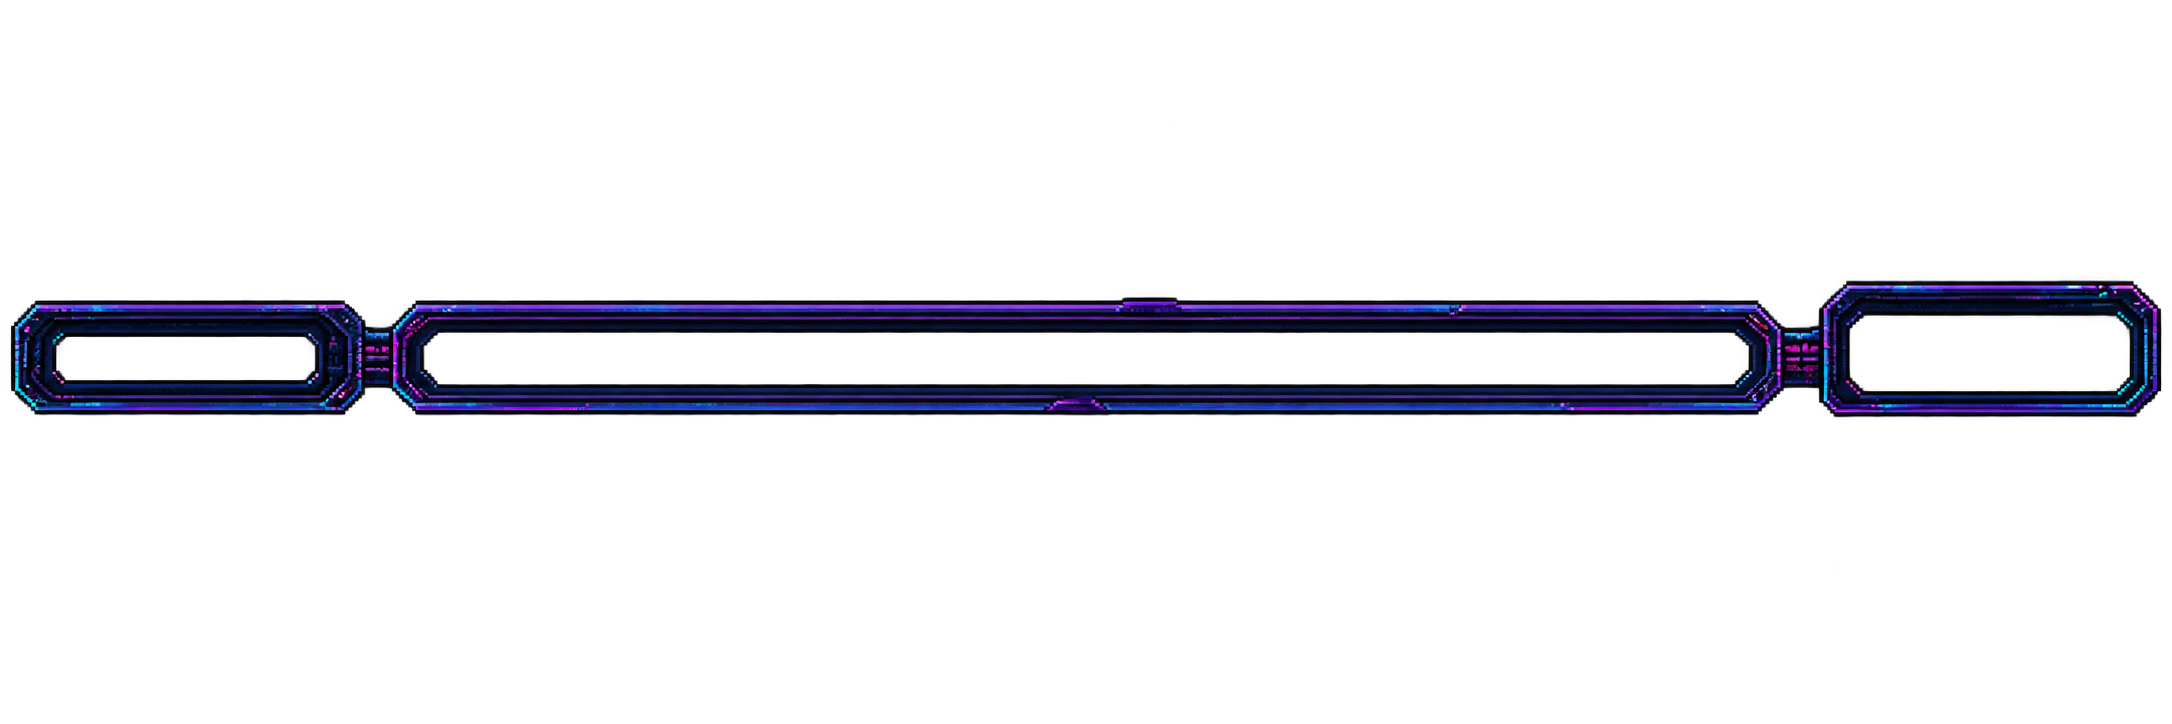
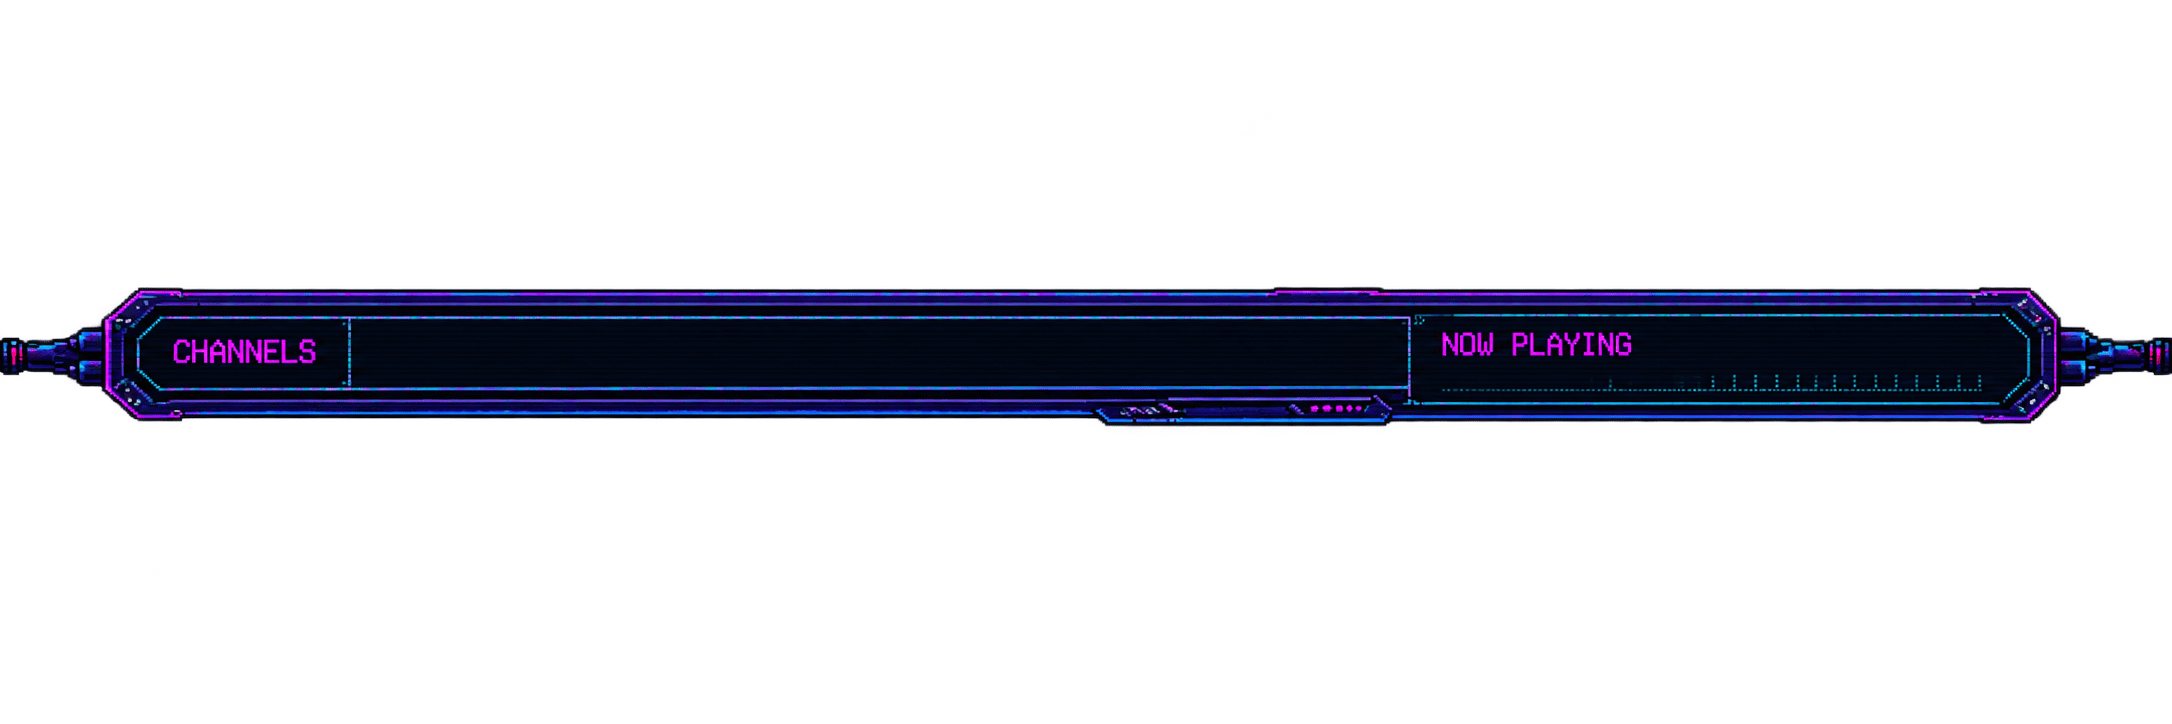
Fill the viewport edge to edge and swap in the new asset pack
Layout: the console was a fixed 1440x900 box scaled and centred, so it
always sat inside letterbox margins and the spine could never reach the
real left edge. Drive scale from height alone and derive the design width
from the viewport, anchored top-left, so the console spans the full page
with the spine on the true left edge and the status stack on the right.

Assets: replaced the wallpaper, terminal frame, content frame and bottom
bar with the versions from ALL_BATCH_ASSETS_compressed. The content frame
is now the tabbed window art (title bar, window controls, tab strip).

The pack ships each status-stack block as a separate ~4:3 card frame,
which can't tile down a 224px column without overflowing the console
height, so that one slot keeps the purpose-built tall stack frame.

Changed region(s): [[0.0, 0.3646, 1.0, 0.6077]]

diff --git a/index.html b/index.html
@@ -614,66 +614,65 @@ const ContentPanel = ({ active, onPreviewCV }) => {
    RIGHT STATUS STACK — decorative HUD sidebar
    ════════════════════════════════════════════ */
 
-const StatusStack = ({ time, uptime }) => {
-  const width = 224;
-  const height = Math.round(width * (2172 / 724));
-  return (
-    <div style={{
-      width, height, flexShrink:0,
-      backgroundImage:"url('icons/mehos_status_frame.png')",
-      backgroundSize:'100% 100%', backgroundRepeat:'no-repeat',
-      display:'flex', flexDirection:'column', fontFamily:MONO_FONT, userSelect:'none',
-      overflow:'hidden',
-    }}>
-      {/* header / clock */}
-      <div style={{ height:'15%', flexShrink:0, display:'flex', flexDirection:'column', alignItems:'center', justifyContent:'center' }}>
-        <div style={{ fontSize:11, color:'var(--mos-text-dim)', letterSpacing:1 }}>MehOS v0.95.5b</div>
-        <div style={{ fontSize:20, fontWeight:'bold', color:'var(--mos-accent-cyan)', letterSpacing:1 }}>{time}</div>
-      </div>
-      {/* system status icons */}
-      <div style={{ height:'9%', flexShrink:0, display:'flex', alignItems:'center', justifyContent:'center', gap:16 }}>
-        <span title="Online" style={{ fontSize:14 }}>💚</span>
-        <span title="Secure" style={{ fontSize:14 }}>🛡</span>
-        <span title="Locked" style={{ fontSize:14 }}>🔒</span>
-      </div>
-      {/* shell info */}
-      <div style={{ height:'13%', flexShrink:0, padding:'0 10%', display:'flex', flexDirection:'column', justifyContent:'center', gap:2, fontSize:9.5 }}>
-        <div style={{ color:'var(--mos-text-dim)' }}>SHELL INFO</div>
-        <div style={{ color:'var(--mos-text)' }}>shell: meh.exe</div>
-        <div style={{ color:'var(--mos-text)' }}>uptime: {uptime}</div>
-        <div style={{ color:'var(--mos-text)' }}>kernel: mehOS 1995</div>
-      </div>
-      {/* security */}
-      <div style={{ height:'13%', flexShrink:0, padding:'0 10%', display:'flex', flexDirection:'column', justifyContent:'center', gap:3, fontSize:9.5 }}>
-        <div style={{ color:'var(--mos-text-dim)' }}>SECURITY</div>
-        <div style={{ color:'var(--mos-accent-cyan)' }}>state: OPERATIONAL</div>
-        <div style={{ display:'flex', gap:2 }}>
-          {Array.from({ length: 16 }).map((_, i) => (
-            <div key={i} style={{ width:6, height:8, background:'var(--mos-accent-cyan)', opacity:0.85 }} />
-          ))}
-        </div>
-      </div>
-      {/* network (tall) */}
-      <div style={{ flex:1, padding:'6% 10%', display:'flex', flexDirection:'column', gap:6, fontSize:9.5, minHeight:0 }}>
-        <div style={{ color:'var(--mos-text-dim)' }}>NETWORK</div>
-        <div style={{ color:'var(--mos-text)' }}>link: uplink</div>
-        <div style={{ display:'flex', alignItems:'flex-end', gap:2, flex:1, minHeight:40 }}>
-          {Array.from({ length: 18 }).map((_, i) => (
-            <div key={i} style={{
-              flex:1, background:'var(--mos-accent-purple)',
-              height:`${20 + ((i * 37) % 70)}%`,
-              animation:`barPulse ${1.2 + (i % 5) * 0.15}s ease-in-out infinite`,
-            }} />
-          ))}
-        </div>
-      </div>
-      {/* notes footer */}
-      <div style={{ height:'12%', flexShrink:0, padding:'0 10%', display:'flex', flexDirection:'column', justifyContent:'center', fontSize:9, color:'var(--mos-accent-purple)', lineHeight:1.4 }}>
-        "Stay curious. Break things. Understand everything." — meh.dll
+/* The new asset pack ships each HUD block as its own ~4:3 card frame, which
+   can't tile down a 224px-wide column without overflowing the console height,
+   so this slot keeps the purpose-built tall stack frame. */
+const StatusStack = ({ time, uptime }) => (
+  <div style={{
+    width:224, flexShrink:0, alignSelf:'stretch',
+    backgroundImage:"url('icons/mehos_status_frame.png')",
+    backgroundSize:'100% 100%', backgroundRepeat:'no-repeat',
+    display:'flex', flexDirection:'column', fontFamily:MONO_FONT, userSelect:'none',
+    overflow:'hidden',
+  }}>
+    {/* header / clock */}
+    <div style={{ height:'15%', flexShrink:0, display:'flex', flexDirection:'column', alignItems:'center', justifyContent:'center' }}>
+      <div style={{ fontSize:11, color:'var(--mos-text-dim)', letterSpacing:1 }}>MehOS v0.95.5b</div>
+      <div style={{ fontSize:20, fontWeight:'bold', color:'var(--mos-accent-cyan)', letterSpacing:1 }}>{time}</div>
+    </div>
+    {/* system status icons */}
+    <div style={{ height:'9%', flexShrink:0, display:'flex', alignItems:'center', justifyContent:'center', gap:16 }}>
+      <span title="Online" style={{ fontSize:14 }}>💚</span>
+      <span title="Secure" style={{ fontSize:14 }}>🛡</span>
+      <span title="Locked" style={{ fontSize:14 }}>🔒</span>
+    </div>
+    {/* shell info */}
+    <div style={{ height:'13%', flexShrink:0, padding:'0 10%', display:'flex', flexDirection:'column', justifyContent:'center', gap:2, fontSize:9.5 }}>
+      <div style={{ color:'var(--mos-text-dim)' }}>SHELL INFO</div>
+      <div style={{ color:'var(--mos-text)' }}>shell: meh.exe</div>
+      <div style={{ color:'var(--mos-text)' }}>uptime: {uptime}</div>
+      <div style={{ color:'var(--mos-text)' }}>kernel: mehOS 1995</div>
+    </div>
+    {/* security */}
+    <div style={{ height:'13%', flexShrink:0, padding:'0 10%', display:'flex', flexDirection:'column', justifyContent:'center', gap:3, fontSize:9.5 }}>
+      <div style={{ color:'var(--mos-text-dim)' }}>SECURITY</div>
+      <div style={{ color:'var(--mos-accent-cyan)' }}>state: OPERATIONAL</div>
+      <div style={{ display:'flex', gap:2 }}>
+        {Array.from({ length: 16 }).map((_, i) => (
+          <div key={i} style={{ width:6, height:8, background:'var(--mos-accent-cyan)', opacity:0.85 }} />
+        ))}
       </div>
     </div>
-  );
-};
+    {/* network (tall) */}
+    <div style={{ flex:1, padding:'6% 10%', display:'flex', flexDirection:'column', gap:6, fontSize:9.5, minHeight:0 }}>
+      <div style={{ color:'var(--mos-text-dim)' }}>NETWORK</div>
+      <div style={{ color:'var(--mos-text)' }}>link: uplink</div>
+      <div style={{ display:'flex', alignItems:'flex-end', gap:2, flex:1, minHeight:40 }}>
+        {Array.from({ length: 18 }).map((_, i) => (
+          <div key={i} style={{
+            flex:1, background:'var(--mos-accent-purple)',
+            height:`${20 + ((i * 37) % 70)}%`,
+            animation:`barPulse ${1.2 + (i % 5) * 0.15}s ease-in-out infinite`,
+          }} />
+        ))}
+      </div>
+    </div>
+    {/* notes footer */}
+    <div style={{ height:'12%', flexShrink:0, padding:'0 10%', display:'flex', flexDirection:'column', justifyContent:'center', fontSize:9, color:'var(--mos-accent-purple)', lineHeight:1.4 }}>
+      "Stay curious. Break things. Understand everything." — meh.dll
+    </div>
+  </div>
+);
 
 /* ════════════════════════════════════════════
    BOTTOM BAR — repurposed with real content
@@ -1250,26 +1249,36 @@ const BootScreen = ({ onComplete }) => {
    MEHOS CONSOLE — main layout
    ════════════════════════════════════════════ */
 
-const useDesktopScale = (enabled) => {
-  const [scale, setScale] = useState(1);
+/* Scale is driven by height alone and the design width is then derived from
+   the viewport, so the console always fills the screen edge to edge with no
+   letterboxing either side — the spine lands on the true left edge of the
+   page rather than on the edge of a centred fixed-width box. Scale is capped
+   so the art doesn't go soft, and floored so the middle column can't be
+   squeezed below a usable width on very tall/narrow windows. */
+const MIN_DESIGN_W = 1150;
+const useDesktopMetrics = (enabled) => {
+  const [m, setM] = useState({ scale:1, designW:DESKTOP_DESIGN_W });
   useEffect(() => {
     if (!enabled) return;
     const calc = () => {
-      const s = Math.min(window.innerWidth / DESKTOP_DESIGN_W, window.innerHeight / DESKTOP_DESIGN_H);
-      setScale(Math.max(1, Math.min(MAX_DESKTOP_SCALE, s)));
+      let scale = window.innerHeight / DESKTOP_DESIGN_H;
+      scale = Math.max(1, Math.min(MAX_DESKTOP_SCALE, scale));
+      scale = Math.min(scale, window.innerWidth / MIN_DESIGN_W);
+      scale = Math.max(scale, 0.1);
+      setM({ scale, designW: window.innerWidth / scale });
     };
     calc();
     window.addEventListener('resize', calc);
     return () => window.removeEventListener('resize', calc);
   }, [enabled]);
-  return scale;
+  return m;
 };
 
 const MehConsole = ({ tweaks }) => {
   const [activeSection, setActiveSection] = useState('ctf');
   const [showCVPreview, setShowCVPreview] = useState(false);
   const isMobile = useIsMobile();
-  const desktopScale = useDesktopScale(!isMobile);
+  const { scale: desktopScale, designW } = useDesktopMetrics(!isMobile);
   const [time, setTime] = useState('');
   const [uptime, setUptime] = useState('0m');
   const sessionStartRef = useRef(Date.now());
@@ -1304,12 +1313,11 @@ const MehConsole = ({ tweaks }) => {
           </div>
         </>
       ) : (
-        <div style={{
-          flex:1, display:'flex', justifyContent:'center', alignItems:'center', minHeight:0, overflow:'hidden',
-        }}>
+        <div style={{ flex:1, position:'relative', minHeight:0, overflow:'hidden' }}>
           <div style={{
-            width:DESKTOP_DESIGN_W, height:DESKTOP_DESIGN_H, flexShrink:0,
-            transform:`scale(${desktopScale})`,
+            position:'absolute', top:0, left:0,
+            width:designW, height:DESKTOP_DESIGN_H,
+            transform:`scale(${desktopScale})`, transformOrigin:'top left',
             display:'flex', padding:DESKTOP_PAD, gap:14, minHeight:0, boxSizing:'border-box',
           }}>
             <ConsoleSpine active={activeSection} onSelect={setActiveSection} />
